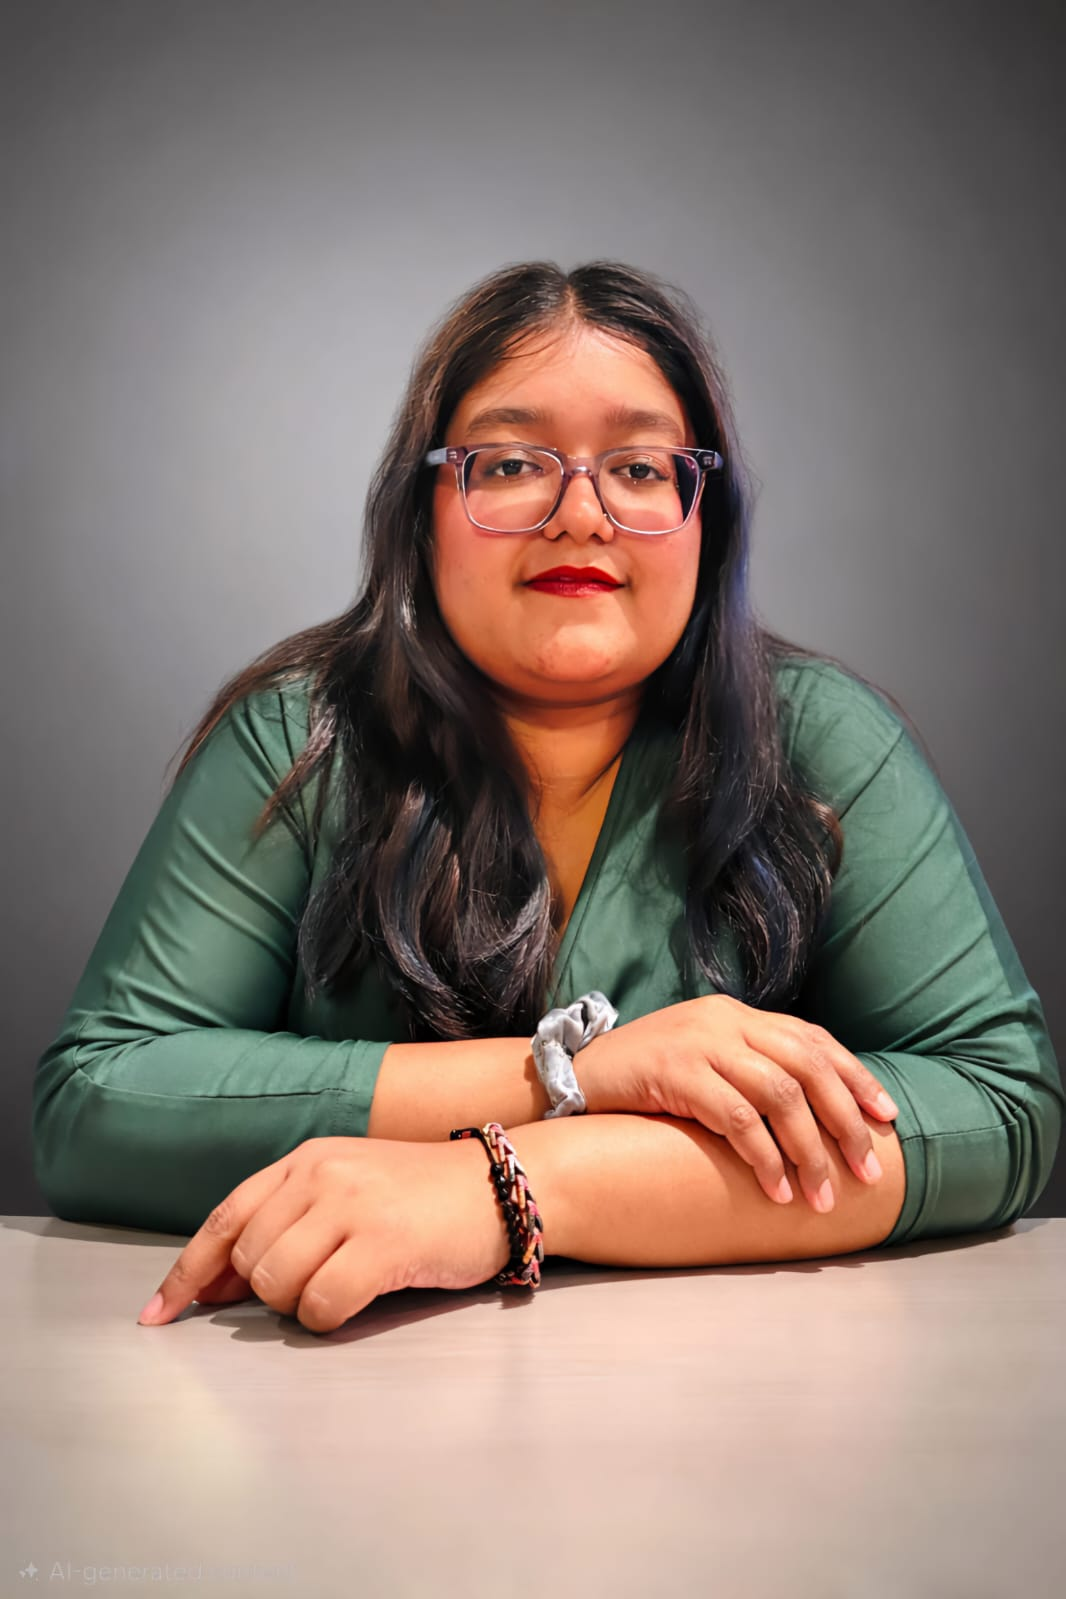
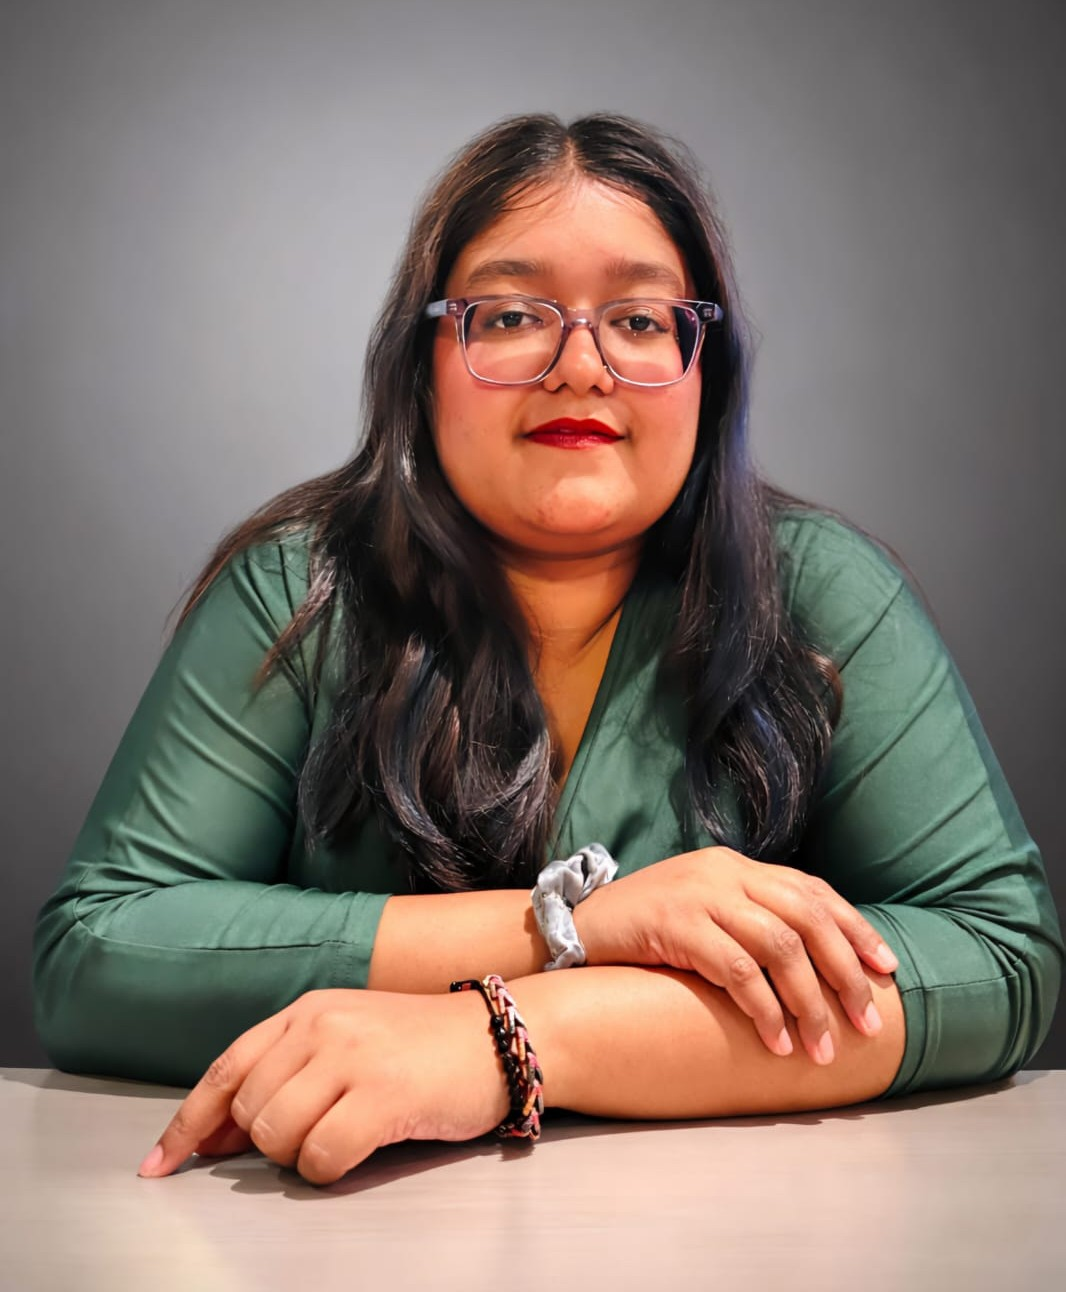
removed unused items

diff --git a/src/assets/css/Home.css b/src/assets/css/Home.css
@@ -5,7 +5,7 @@ html {
   display: flex;
   flex-direction: column;
   align-items: center;
-  margin-top: 5%;
+  margin-top: 6%;
 }
 p {
   color: white;
@@ -19,6 +19,10 @@ p {
   font-size: 8rem;
   color: var(--neongreen);
   margin: 20px 0;
+}
+.my-pic-box{
+  border-radius: 10px;
+  box-shadow: 1px 3px 20px 4px rgb(56 224 79 / 66%);
 }
 .one-liner {
   text-align: center;

diff --git a/src/pages/Home.jsx b/src/pages/Home.jsx
@@ -23,13 +23,13 @@ const Home = () => {
 
   return (
     <div className="home">
-      <div>
+      <div class="my-pic">
         <LazyLoadImage
           src={dp}
           alt="profile"
           effect="blur"
           className="my-pic-box"
-          width="100%"
+        width={300}
         />
       </div>
       <h1 className="head">Ankita Budhia</h1>